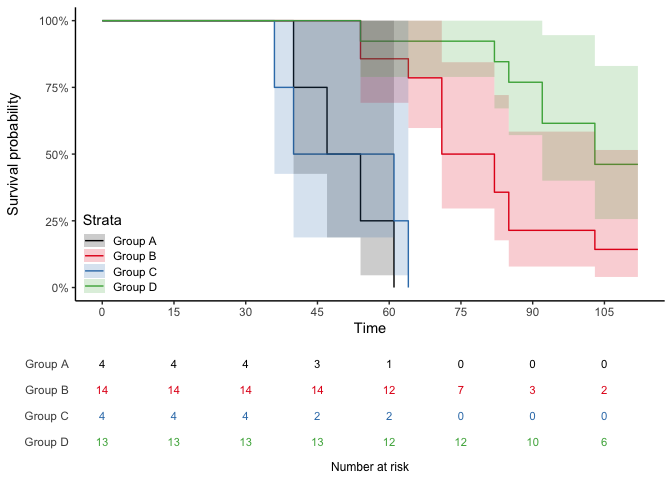
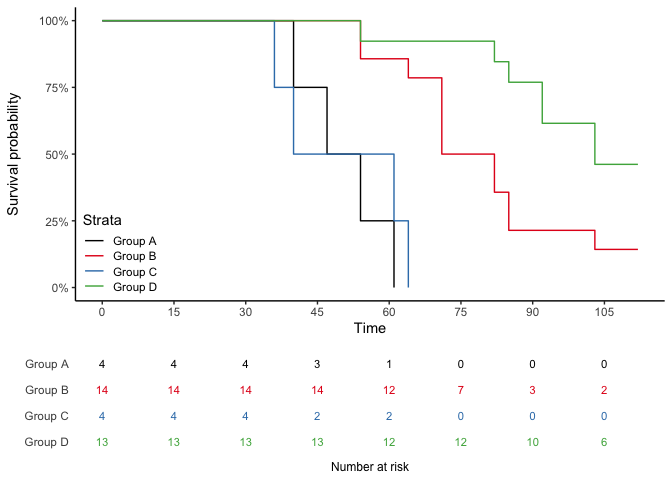
Confidence band ribbons are shown by default

Changed region(s): [[0.4062, 0.0312, 0.9688, 0.5938], [0.125, 0.4688, 0.1562, 0.625]]

diff --git a/README.md b/README.md
@@ -38,13 +38,13 @@ combineSurvFigs(topFigureEx1, bottomChartEx1)
 ## timepts, colors, and ribbon
 
 Custom `timepts` along the x-axis and `colors` for KM curves or chart
-text can be specified in arguments. An optional confidence band `ribbon`
-can be displayed.
+text can be specified in arguments. The confidence band `ribbon` can be
+removed.
 
 ``` r
 topFigureEx2 <- makeKMFig(
   formula = survival::Surv(stime, scens) ~ treatment,
-  data = mice, ribbon = TRUE,
+  data = mice, ribbon = FALSE,
   colors = c("black", RColorBrewer::brewer.pal(3, "Set1")),
   timepts = seq(from = 0, to = max(mice$stime), by = 15)
 )
@@ -69,7 +69,7 @@ with `combineSurvFigs()`.
 ``` r
 library(ggplot2)
 makeKMFig(formula = survival::Surv(stime, scens) ~ treatment,
-          data = mice, ribbon = TRUE) +
+          data = mice) +
   labs(x = "Survival time (days)") +
   theme(legend.position = c(0.1, 0.2),
         legend.background = element_rect(color = "black"),
